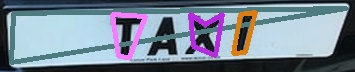
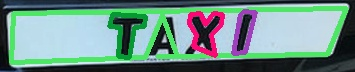
Refactor code

diff --git a/remove_skew.py b/remove_skew.py
@@ -21,7 +21,7 @@ def approximate_contours(preprocessed_image, original_image):
     result_polygon = max(possible_polygons_with_areas, key=lambda item: item[1])[0]
 
     for polygon, _ in possible_polygons_with_areas:
-        original_image = draw_plate_contour(original_image, polygon)
+        original_image = draw_plate_polygons(original_image, polygon)
 
     # for contour in contours:
     #     original_image = draw_plate_contour(original_image, contour)
@@ -29,12 +29,12 @@ def approximate_contours(preprocessed_image, original_image):
     return original_image, result_polygon
 
 
-def draw_plate_contour(image, approximated_polygon):
+def draw_plate_polygons(image, approximated_polygon):
     return cv2.drawContours(image, [approximated_polygon], -1, (randint(0, 255), randint(0, 255), randint(0, 255)), 3)
 
 
-def order_points(pts):
-    # initialzie a list of coordinates that will be ordered
+def order_points(points):
+    # initialize a list of coordinates that will be ordered
     # such that the first entry in the list is the top-left,
     # the second entry is the top-right, the third is the
     # bottom-right, and the fourth is the bottom-left
@@ -42,16 +42,16 @@ def order_points(pts):
 
     # the top-left point will have the smallest sum, whereas
     # the bottom-right point will have the largest sum
-    s = pts.sum(axis=1)
-    rect[0] = pts[np.argmin(s)]
-    rect[2] = pts[np.argmax(s)]
+    sum = points.sum(axis=1)
+    rect[0] = points[np.argmin(sum)]
+    rect[2] = points[np.argmax(sum)]
 
     # now, compute the difference between the points, the
     # top-right point will have the smallest difference,
     # whereas the bottom-left will have the largest difference
-    diff = np.diff(pts, axis=1)
-    rect[1] = pts[np.argmin(diff)]
-    rect[3] = pts[np.argmax(diff)]
+    diff = np.diff(points, axis=1)
+    rect[1] = points[np.argmin(diff)]
+    rect[3] = points[np.argmax(diff)]
 
     # return the ordered coordinates
     return rect
@@ -61,21 +61,21 @@ def four_point_transform(image, pts):
     # obtain a consistent order of the points and unpack them
     # individually
     rect = order_points(pts)
-    (tl, tr, br, bl) = rect
+    (top_left, top_right, bottom_right, bottom_left) = rect
 
     # compute the width of the new image, which will be the
     # maximum distance between bottom-right and bottom-left
     # x-coordiates or the top-right and top-left x-coordinates
-    widthA = np.sqrt(((br[0] - bl[0]) ** 2) + ((br[1] - bl[1]) ** 2))
-    widthB = np.sqrt(((tr[0] - tl[0]) ** 2) + ((tr[1] - tl[1]) ** 2))
-    maxWidth = max(int(widthA), int(widthB))
+    width_a = np.sqrt(((bottom_right[0] - bottom_left[0]) ** 2) + ((bottom_right[1] - bottom_left[1]) ** 2))
+    width_b = np.sqrt(((top_right[0] - top_left[0]) ** 2) + ((top_right[1] - top_left[1]) ** 2))
+    max_width = max(int(width_a), int(width_b))
 
     # compute the height of the new image, which will be the
     # maximum distance between the top-right and bottom-right
     # y-coordinates or the top-left and bottom-left y-coordinates
-    heightA = np.sqrt(((tr[0] - br[0]) ** 2) + ((tr[1] - br[1]) ** 2))
-    heightB = np.sqrt(((tl[0] - bl[0]) ** 2) + ((tl[1] - bl[1]) ** 2))
-    maxHeight = max(int(heightA), int(heightB))
+    height_a = np.sqrt(((top_right[0] - bottom_right[0]) ** 2) + ((top_right[1] - bottom_right[1]) ** 2))
+    height_b = np.sqrt(((top_left[0] - bottom_left[0]) ** 2) + ((top_left[1] - bottom_left[1]) ** 2))
+    max_height = max(int(height_a), int(height_b))
 
     # now that we have the dimensions of the new image, construct
     # the set of destination points to obtain a "birds eye view",
@@ -84,13 +84,13 @@ def four_point_transform(image, pts):
     # order
     dst = np.array([
         [0, 0],
-        [maxWidth - 1, 0],
-        [maxWidth - 1, maxHeight - 1],
-        [0, maxHeight - 1]], dtype="float32")
+        [max_width - 1, 0],
+        [max_width - 1, max_height - 1],
+        [0, max_height - 1]], dtype="float32")
 
     # compute the perspective transform matrix and then apply it
-    M = cv2.getPerspectiveTransform(rect, dst)
-    warped = cv2.warpPerspective(image, M, (maxWidth, maxHeight))
+    warp_matrix = cv2.getPerspectiveTransform(rect, dst)
+    warped = cv2.warpPerspective(image, warp_matrix, (max_width, max_height))
 
     # return the warped image
     return warped
@@ -109,33 +109,33 @@ def process():
     # cv2.imshow("Preprocessed image", closed_image)
     # cv2.imshow("Contours on preprocessed image", preprocessed_image_with_contours)
     cv2.imshow("output2", preprocessed_image_with_polygons)
-    # cv2.imwrite("output/contours_on_dilated_photo4.jpg", preprocessed_image_with_polygons)
+    # cv2.imwrite("output/polygons_on_dilated_photo4.jpg", preprocessed_image_with_polygons)
 
     cv2.waitKey()
 
-    # # construct the argument parse and parse the arguments
-    # ap = argparse.ArgumentParser()
-    # ap.add_argument("-i", "--image", help="path to the image file")
-    # ap.add_argument("-c", "--coords",
-    #                 help="comma seperated list of source points")
-    # args = vars(ap.parse_args())
-    #
-    # # load the image and grab the source coordinates (i.e. the list of
-    # # of (x, y) points)
-    # # NOTE: using the 'eval' function is bad form, but for this example
-    # # let's just roll with it -- in future posts I'll show you how to
-    # # automatically determine the coordinates without pre-supplying them
-    # image = cv2.imread(args["image"])
-    # pts = np.array(eval(args["coords"]), dtype="float32")
-    #
-    # # apply the four point tranform to obtain a "birds eye view" of
-    # # the image
-    # warped = four_point_transform(image, pts)
-    #
-    # # show the original and warped images
-    # cv2.imshow("Original", image)
-    # cv2.imshow("Warped", warped)
-    # cv2.waitKey(0)
+    # construct the argument parse and parse the arguments
+    ap = argparse.ArgumentParser()
+    ap.add_argument("-i", "--image", help="path to the image file")
+    ap.add_argument("-c", "--coords",
+                    help="comma seperated list of source points")
+    args = vars(ap.parse_args())
+
+    # load the image and grab the source coordinates (i.e. the list of
+    # of (x, y) points)
+    # NOTE: using the 'eval' function is bad form, but for this example
+    # let's just roll with it -- in future posts I'll show you how to
+    # automatically determine the coordinates without pre-supplying them
+    image = cv2.imread(args["image"])
+    pts = np.array(eval(args["coords"]), dtype="float32")
+
+    # apply the four point tranform to obtain a "birds eye view" of
+    # the image
+    warped = four_point_transform(image, pts)
+
+    # show the original and warped images
+    cv2.imshow("Original", image)
+    cv2.imshow("Warped", warped)
+    cv2.waitKey(0)
 
 
 if __name__ == '__main__':
